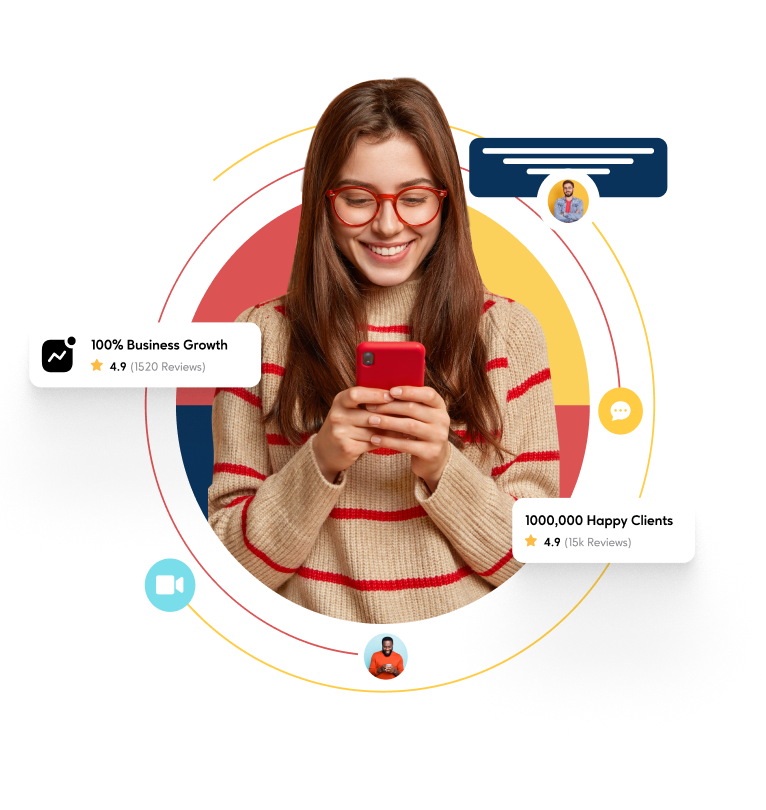
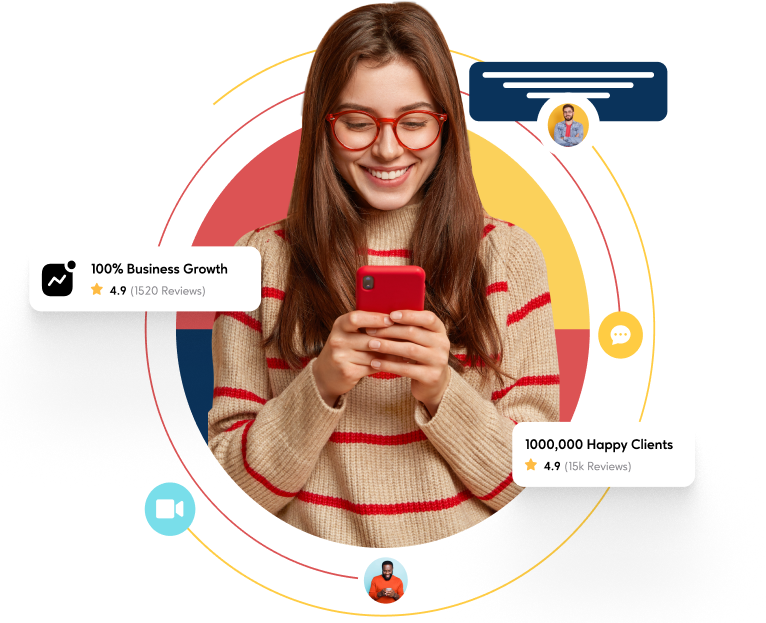
fixed home img sizing

diff --git a/src/screens/Home/Home.css b/src/screens/Home/Home.css
@@ -4,6 +4,7 @@
     width: 76.5rem;
     margin-right: 0rem;
     overflow: hidden;
+
     
 }
 .home-layout{
@@ -31,6 +32,7 @@
         text-align: start;
         width: 49.2rem;
         overflow:hidden;
+        margin-top: 15.6rem;
      
         
 }
